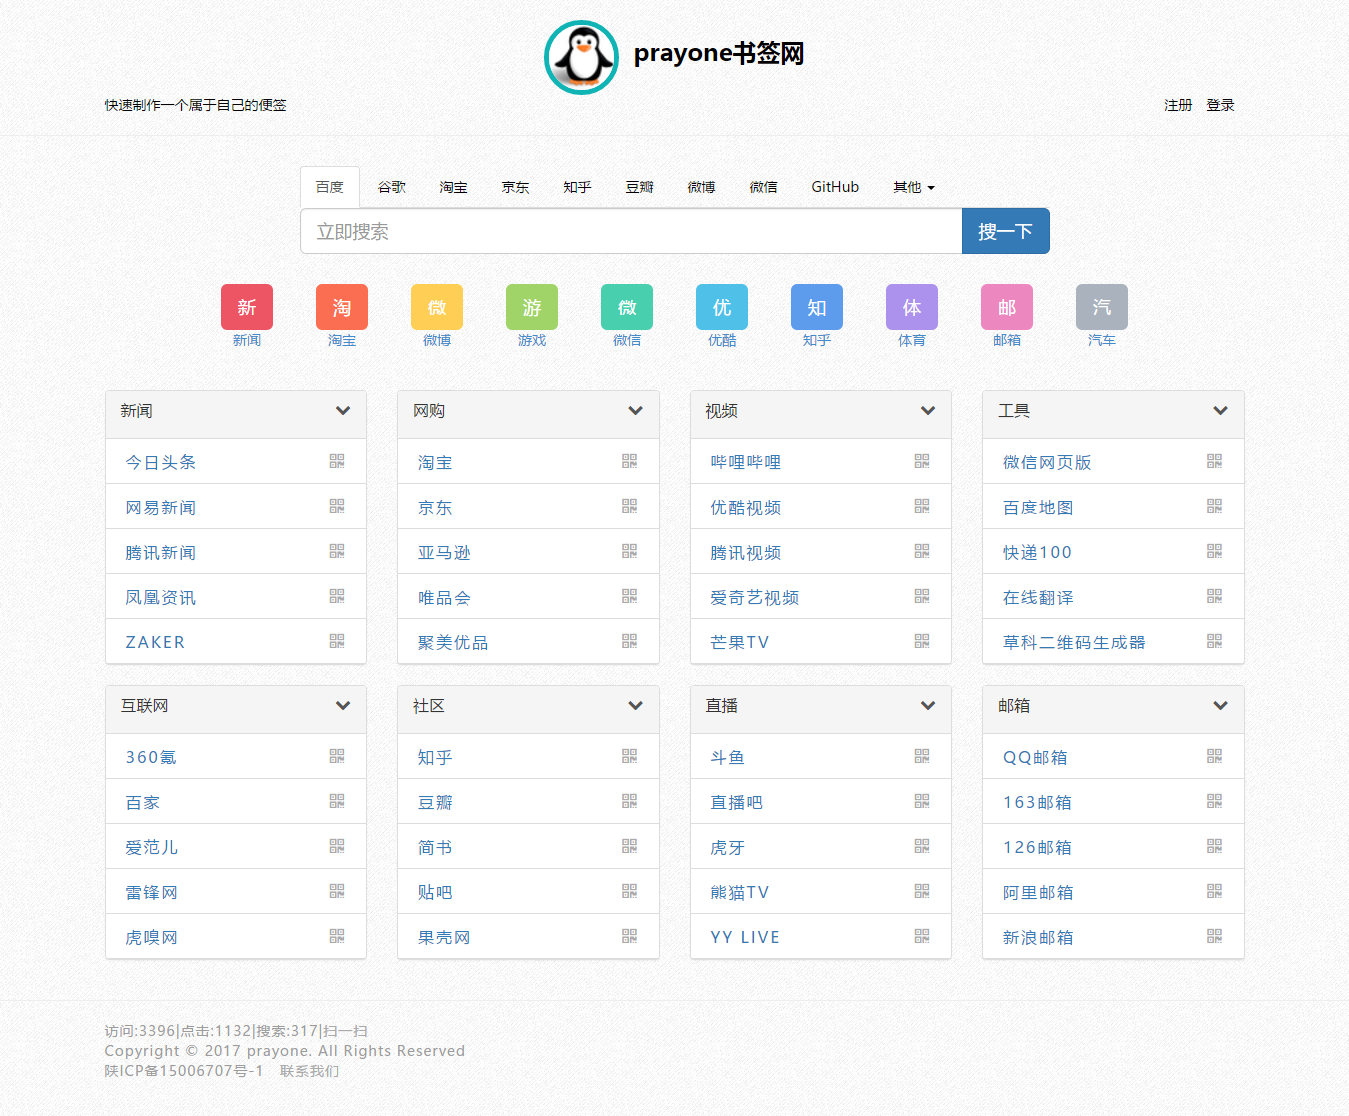
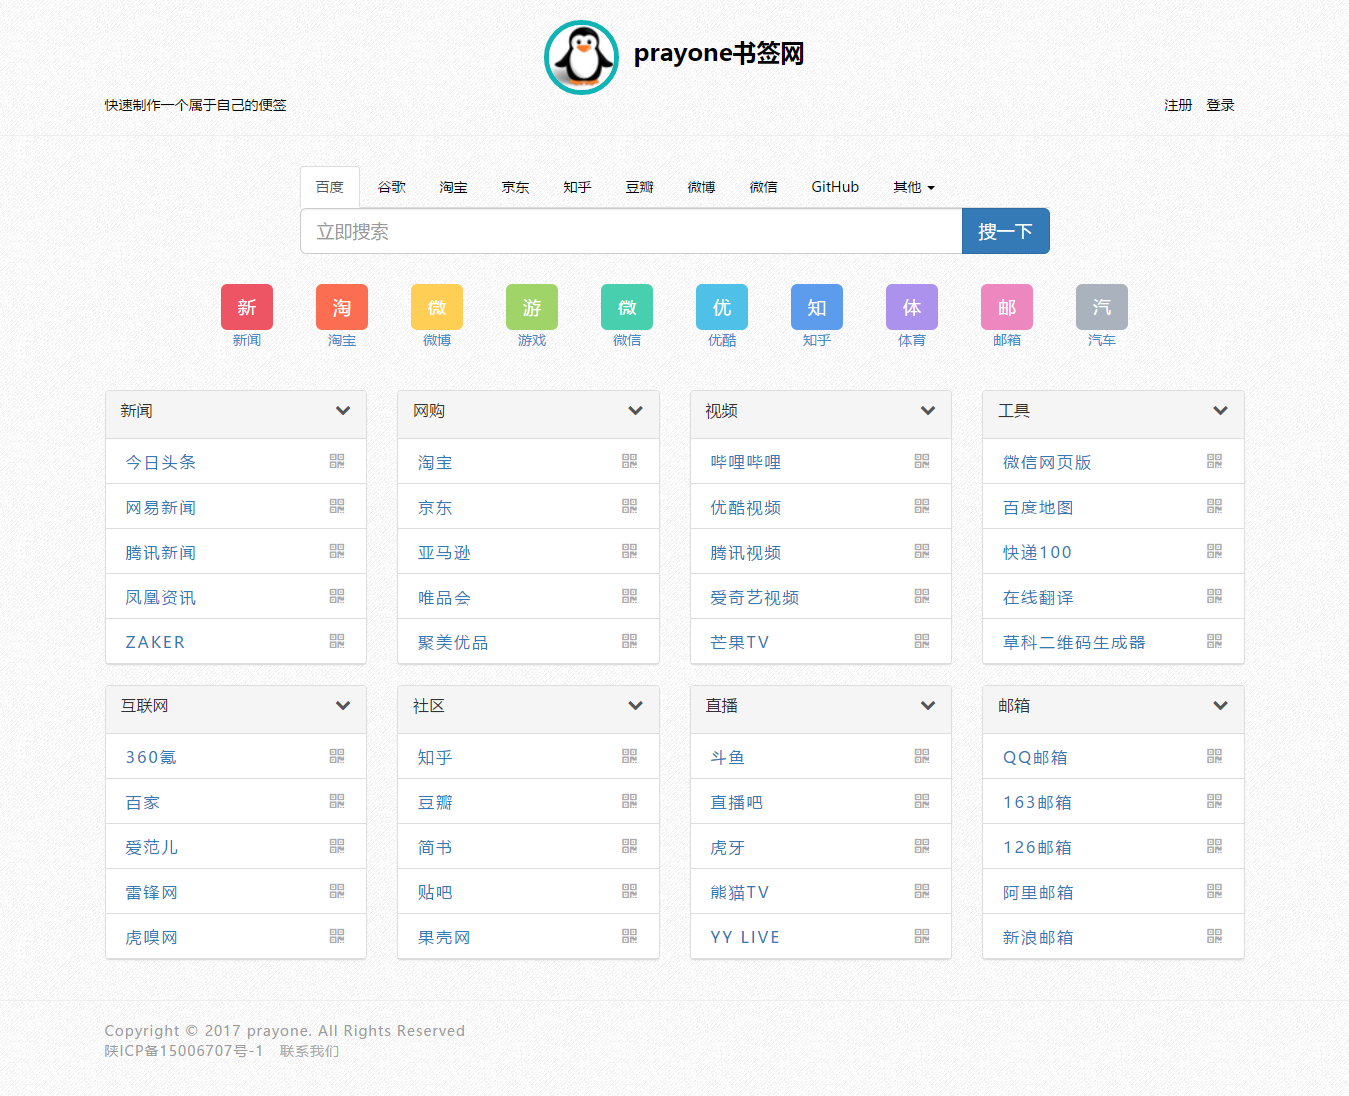
修改

diff --git a/index.html b/index.html
@@ -621,9 +621,6 @@
     </div>
     <hr>
     <footer class="container">
-        <div class="text-left" style="color: #9C9C9C;">
-                访问:3396<span class="xlx">|</span>点击:1132<span class="xlx">|</span>搜索:317<span class="xlx">|</span><a href="">扫一扫</a>
-        </div>
         <div class="text-reght myfont" style="color: #9C9C9C;">
             <dl>
               <dd>Copyright © 2017 prayone. All Rights Reserved</dd>

diff --git a/mynote/mynote.html b/mynote/mynote.html
@@ -225,9 +225,6 @@
 </div>
 <hr>
 <footer class="container">
-    <div class="text-left" style="color: #9C9C9C;">
-        访问:3396<span class="xlx">|</span>点击:1132<span class="xlx">|</span>搜索:317<span class="xlx">|</span><a href="">扫一扫</a>
-    </div>
     <div class="text-reght myfont" style="color: #9C9C9C;">
         <dl>
             <dd>Copyright © 2017 shouku123. All Rights Reserved</dd>
